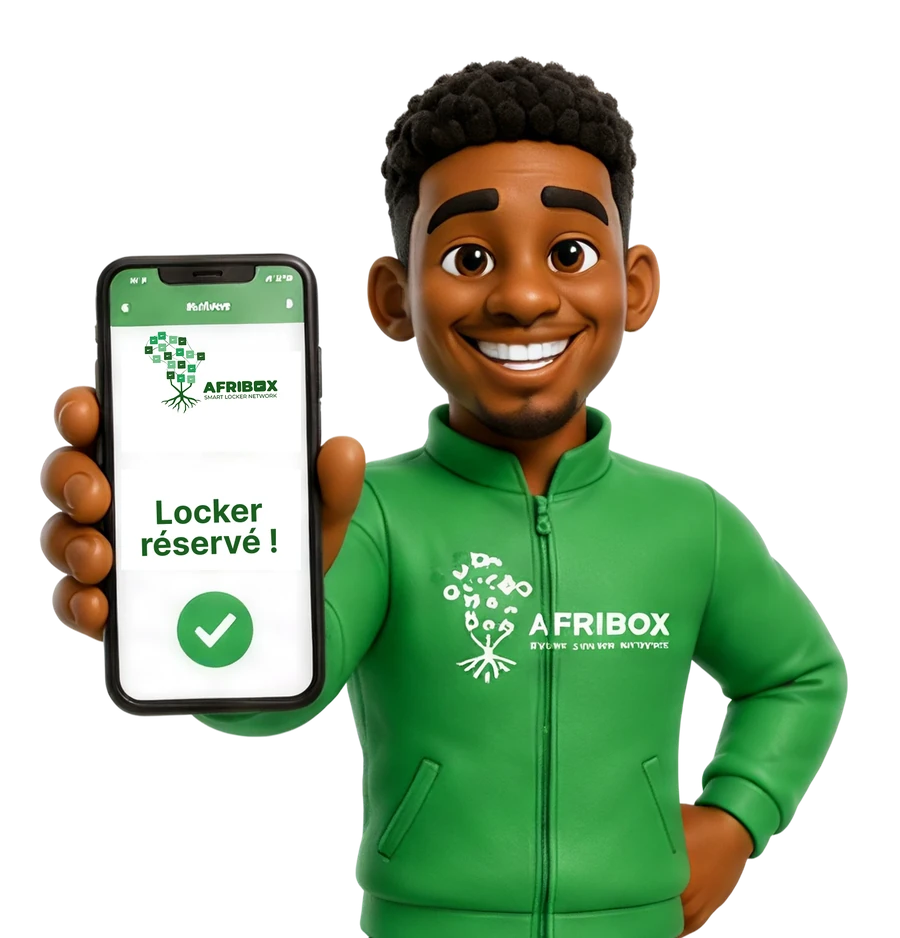
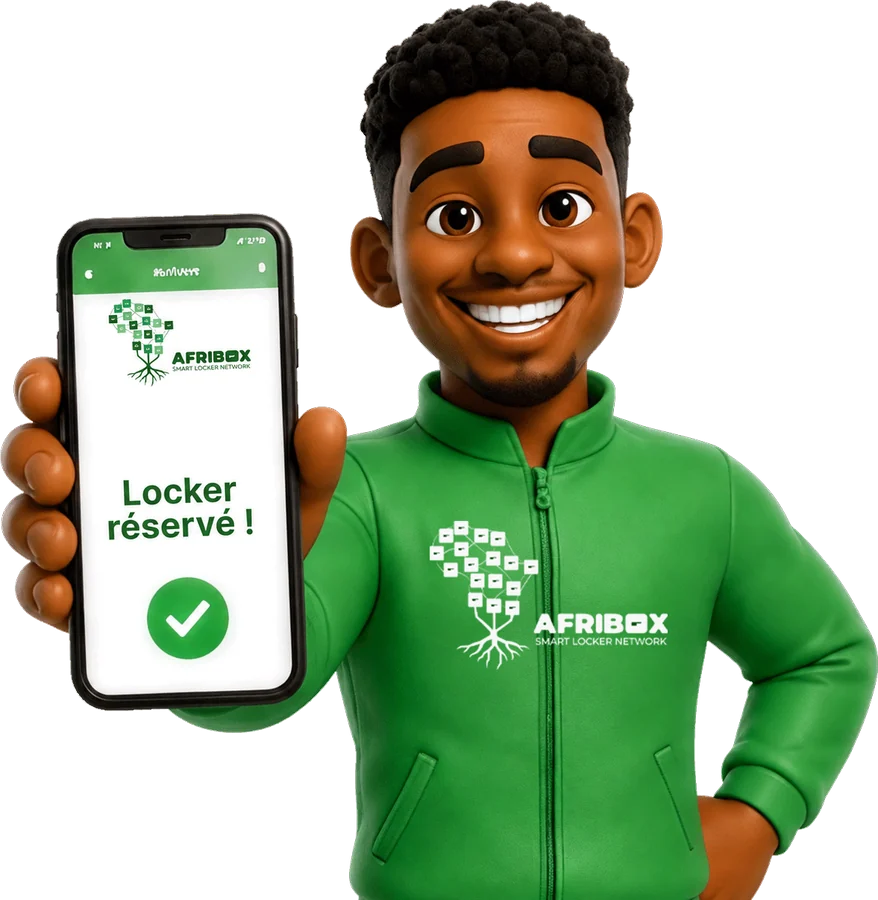
feat(hero): nouvelle image HD de Locky
Remplace mascotte.webp par la version HD fournie (recadree sur l alpha,
WebP 878x900, 79 Ko), blur placeholder et dimensions mis a jour. Source
Locky.png laissee hors depot.

diff --git a/components/sections/HeroAfribox.tsx b/components/sections/HeroAfribox.tsx
@@ -10,7 +10,7 @@ import { ArrowRight, Clock, Package, CalendarClock, Smartphone, Check } from 'lu
    dans le HTML, il évite le « header vide » pendant le téléchargement du WebP
    de Locky. Généré depuis public/mascotte.webp. */
 const MASCOTTE_BLUR =
[2 lines of base64/hex data omitted]
 
 /* Effet machine à écrire sur le dernier mot du titre.
    Le SSR rend WORDS[0] : le titre reste lisible même sans JS. */
@@ -249,8 +249,8 @@ export default function HeroAfribox() {
                   <Image
                     src="/mascotte.webp"
                     alt="Locky, la mascotte Afribox, présentant une réservation de locker confirmée"
-                    width={480}
-                    height={500}
+                    width={878}
+                    height={900}
                     priority
                     placeholder="blur"
                     blurDataURL={MASCOTTE_BLUR}
